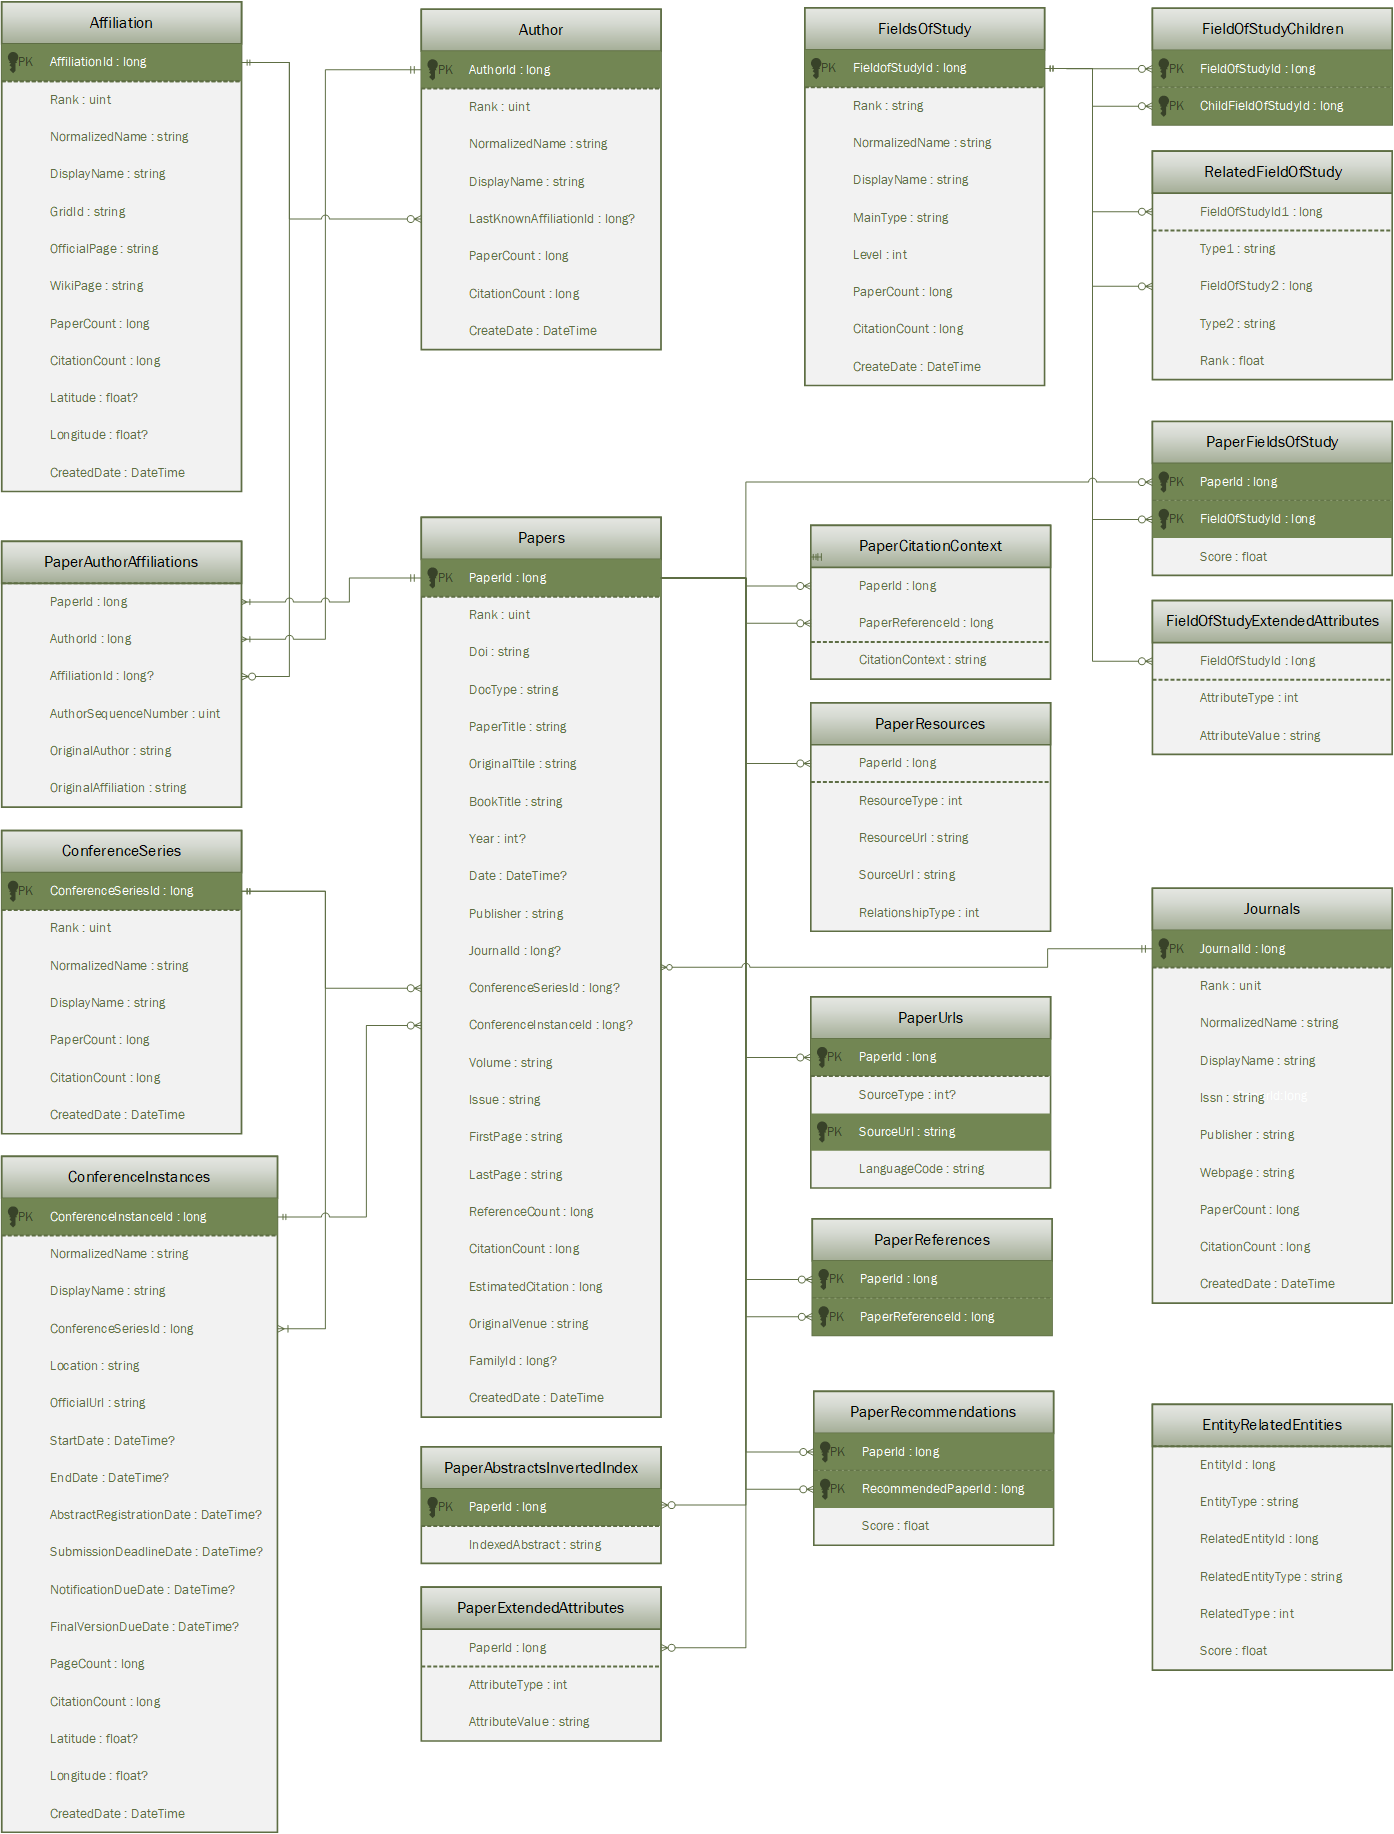
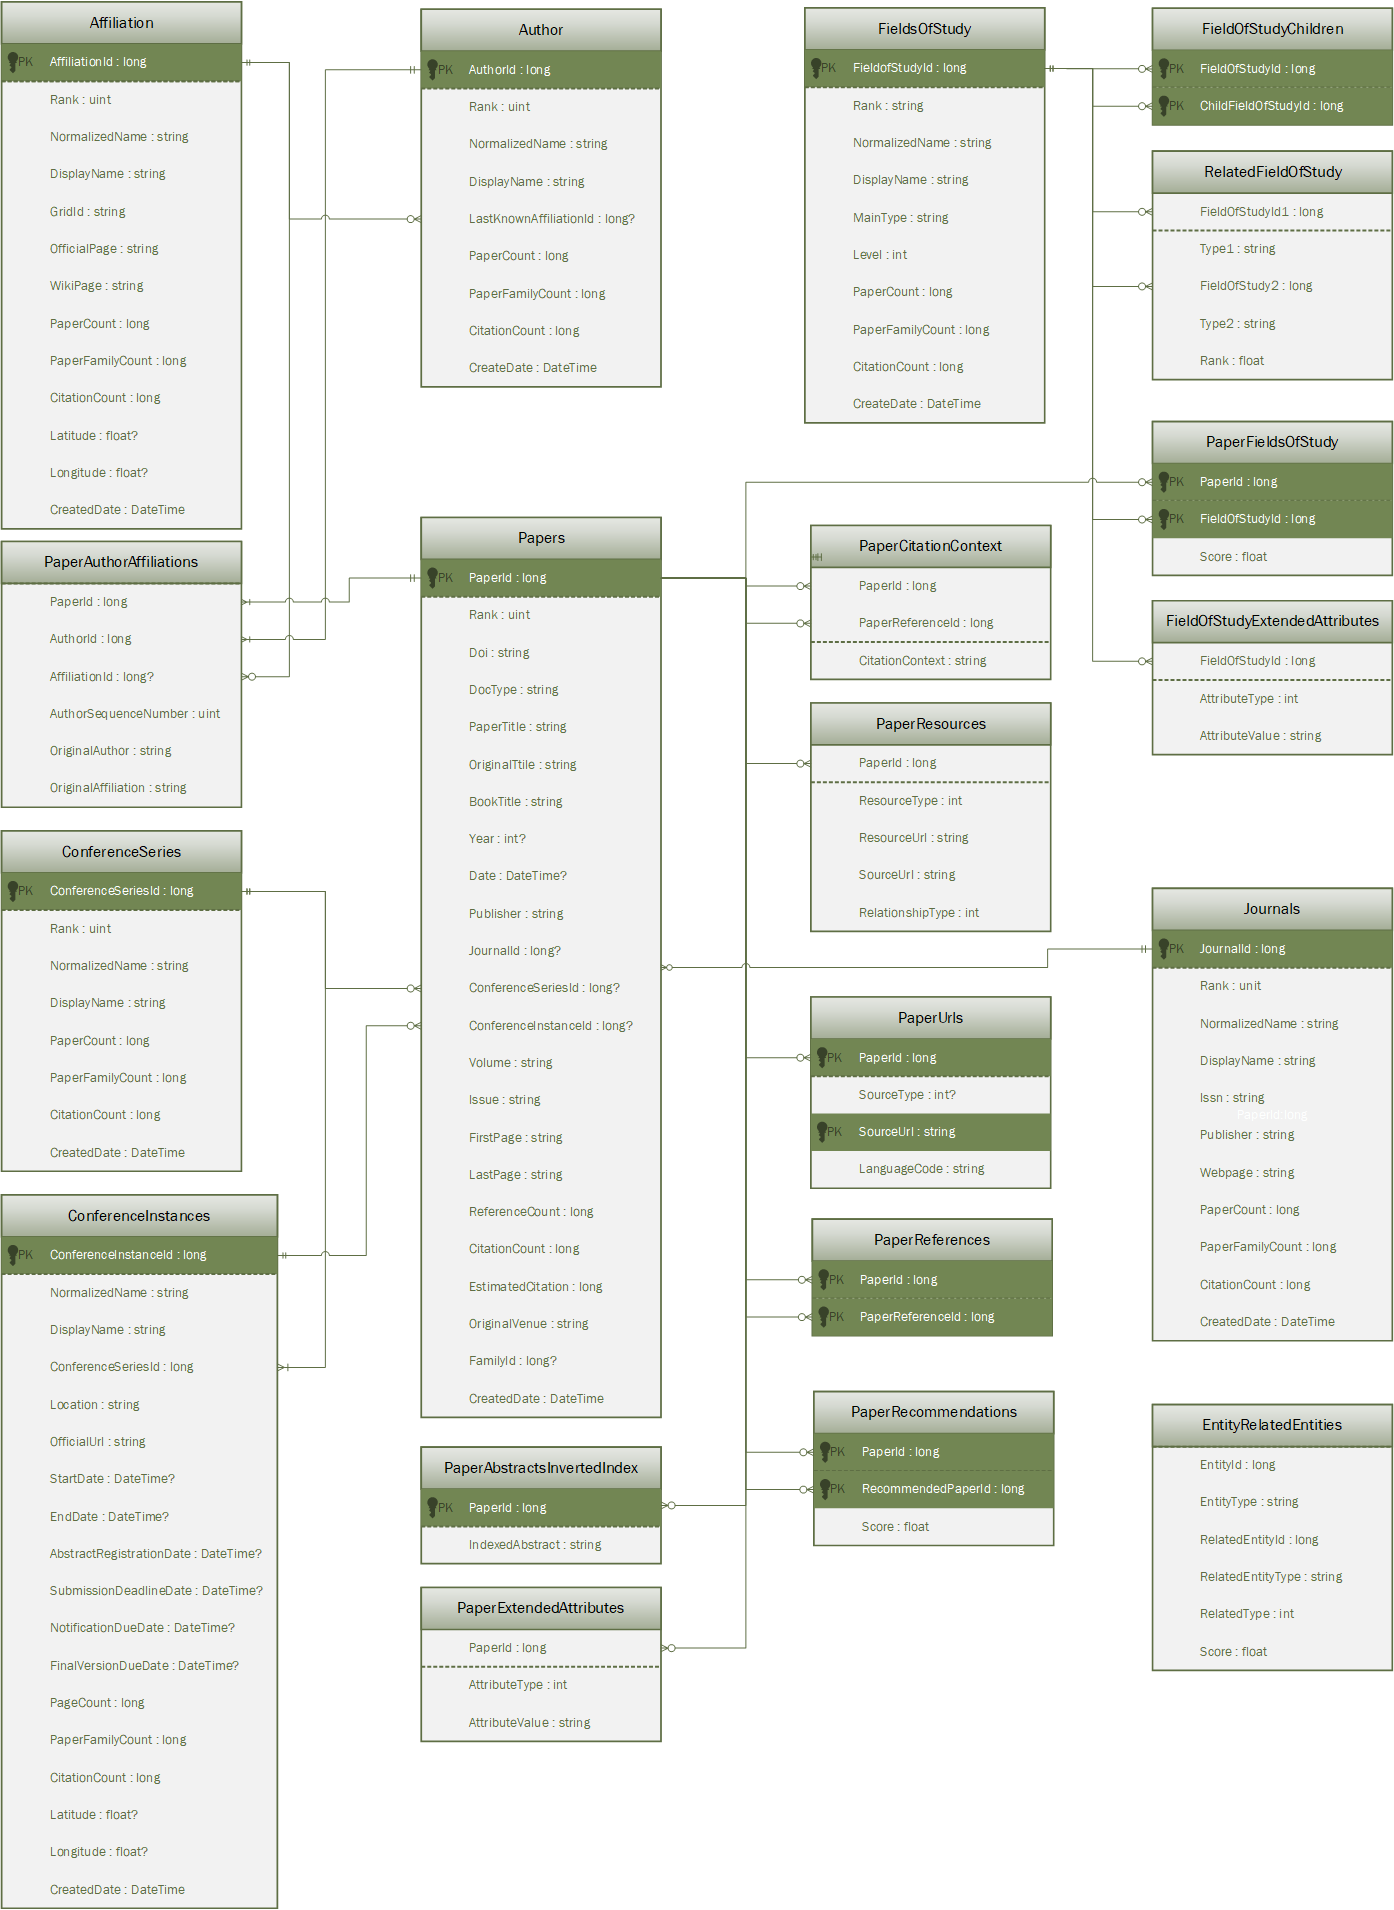
Added PaperFamilyCount field (#143)
* Update reference-data-schema.md

* Added erd diagram

* Update resources-faq.md

* Update resources-faq.md

* Update reference-data-schema.md

* Changed FamilyId definition

diff --git a/academic-services/graph/reference-data-schema.md b/academic-services/graph/reference-data-schema.md
@@ -2,7 +2,7 @@
 title: Microsoft Academic Graph data schema
 description: Documents the complete, most recent Microsoft Academic Graph entity data schema, including the name and type of each attribute
 ms.topic: reference
-ms.date: 2/13/2020
+ms.date: 5/19/2020
 ---
 # Microsoft Academic Graph data schema
 
@@ -45,10 +45,11 @@ Column # | Name | Type | Note
 6 | OfficialPage | string |
 7 | WikiPage | string |
 8 | PaperCount | long |
-9 | CitationCount | long |
-10 | Latitude | float? |
-11 | Longitude | float? |
-12 | CreatedDate | DateTime |
+9 | PaperFamilyCount | long | See [FAQ](resources-faq.md#papercount-vs-paperfamilycount)
+10 | CitationCount | long |
+11 | Latitude | float? |
+12 | Longitude | float? |
+13 | CreatedDate | DateTime |
 
 ## Authors
 
@@ -64,8 +65,9 @@ Column # | Name | Type | Note
 4 | DisplayName | string |
 5 | LastKnownAffiliationId | long? |
 6 | PaperCount | long |
-7 | CitationCount | long |
-8 | CreatedDate | DateTime |
+7 | PaperFamilyCount | long | See [FAQ](resources-faq.md#papercount-vs-paperfamilycount)
+8 | CitationCount | long |
+9 | CreatedDate | DateTime |
 
 ## Conference Instances
 
@@ -88,10 +90,11 @@ Column # | Name | Type | Note
 11 | NotificationDueDate | DateTime? |
 12 | FinalVersionDueDate | DateTime? |
 13 | PaperCount | long |
-14 | CitationCount | long |
-15 | Latitude | float? |
-16 | Longitude | float? |
-17 | CreatedDate | DateTime |
+14 | PaperFamilyCount | long | See [FAQ](resources-faq.md#papercount-vs-paperfamilycount)
+15 | CitationCount | long |
+16 | Latitude | float? |
+17 | Longitude | float? |
+18 | CreatedDate | DateTime |
 
 ## Conference Series
 
@@ -106,8 +109,9 @@ Column # | Name | Type | Note
 3 | NormalizedName | string |
 4 | DisplayName | string |
 5 | PaperCount | long |
-6 | CitationCount | long |
-7 | CreatedDate | DateTime |
+6 | PaperFamilyCount | long | See [FAQ](resources-faq.md#papercount-vs-paperfamilycount)
+7 | CitationCount | long |
+8 | CreatedDate | DateTime |
 
 ## Entity Related Entities
 
@@ -162,8 +166,9 @@ Column # | Name | Type | Note
 5 | MainType | string |
 6 | Level | Int | 0 - 5
 7 | PaperCount | long |
-8 | CitationCount | long |
-9 | CreatedDate | DateTime |
+8 | PaperFamilyCount | long | See [FAQ](resources-faq.md#papercount-vs-paperfamilycount)
+9 | CitationCount | long |
+10 | CreatedDate | DateTime |
 
 ## Journals
 
@@ -181,8 +186,9 @@ Column # | Name | Type | Note
 6 | Publisher | string |
 7 | Webpage | string |
 8 | PaperCount | long |
-9 | CitationCount | long |
-10 | CreatedDate | DateTime |
+9 | PaperFamilyCount | long | See [FAQ](resources-faq.md#papercount-vs-paperfamilycount)
+10 | CitationCount | long |
+11 | CreatedDate | DateTime |
 
 ## Paper Abstracts Inverted Index
 

diff --git a/academic-services/graph/resources-faq.md b/academic-services/graph/resources-faq.md
@@ -2,7 +2,7 @@
 title: FAQ about Microsoft Academic Graph
 description: Answers some of the most frequently asked questions about the Microsoft Academic Graph
 ms.topic: reference
-ms.date: 12/2/2019
+ms.date: 5/19/2020
 ---
 # Frequently Asked Questions about Microsoft Academic Graph
 
@@ -59,4 +59,12 @@ It is relatively easy and inexpensive to compute citation counts and h-index usi
 
 ## What is FamilyId in Papers.txt
 
-Some papers were published in multiple venues, e.g. in archive and a conference. These papers share same FamilyId where the value  being the PaperId of the main paper.
+A paper "family" is defined as a group of papers that have been determined to be the same fundamental paper, but published in different venues (e.g. pre-print and conference). In this case only one of the papers will be determined to be the "primary" paper, and each paper in the family group will have its "FamilyId" value set to the primary papers ID.
+
+If the "FamilyId" value is not defined for a paper it means that the paper is not part of a larger family group, however it is still considered to be the primary paper of a single-paper family."
+
+## PaperCount vs. PaperFamilyCount
+
+PaperCount is the number of papers associated with the entity.
+
+PaperFamilyCount is the number of primary family papers associated with the entity.
